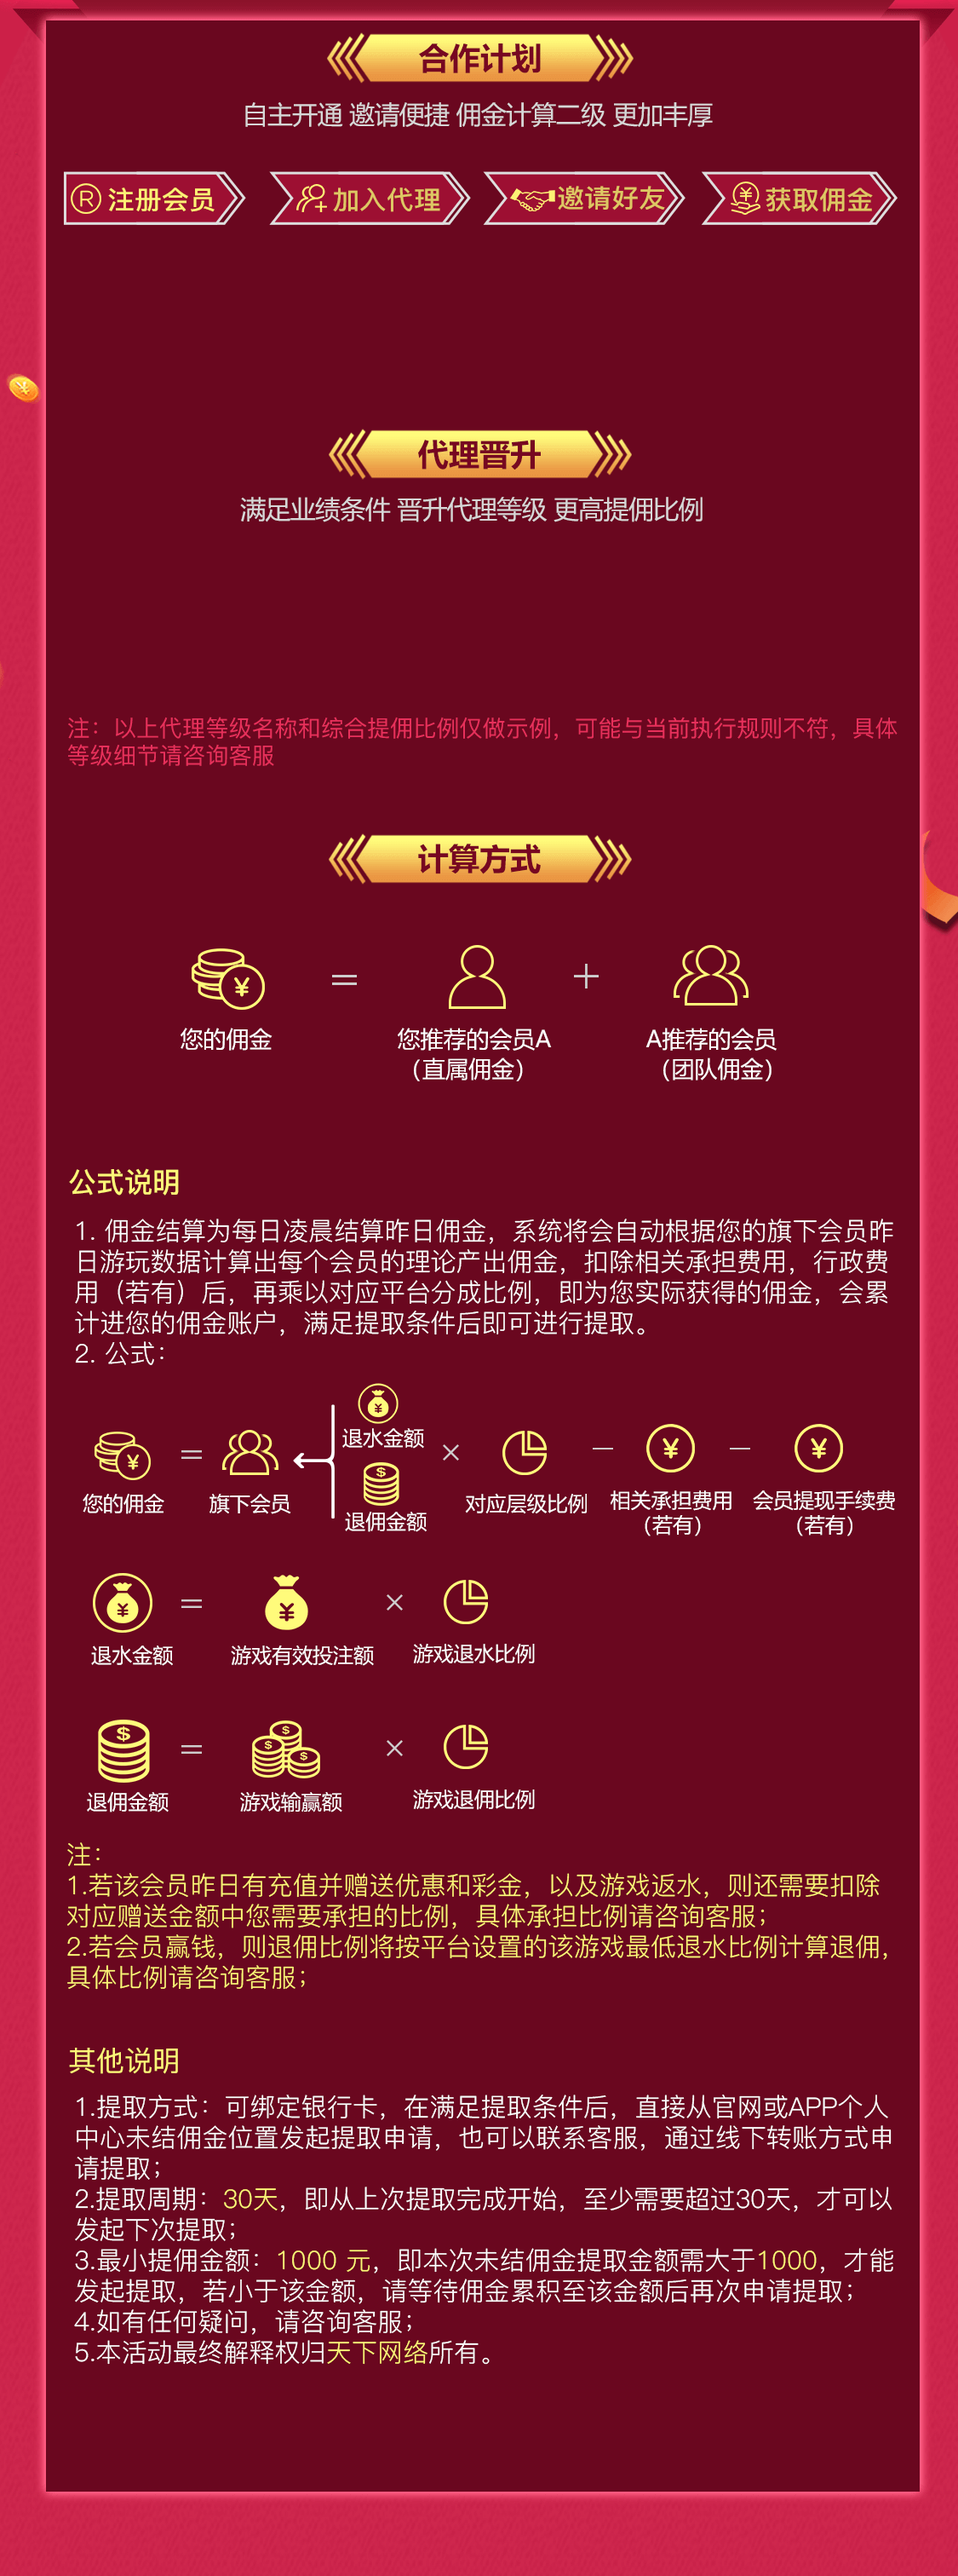
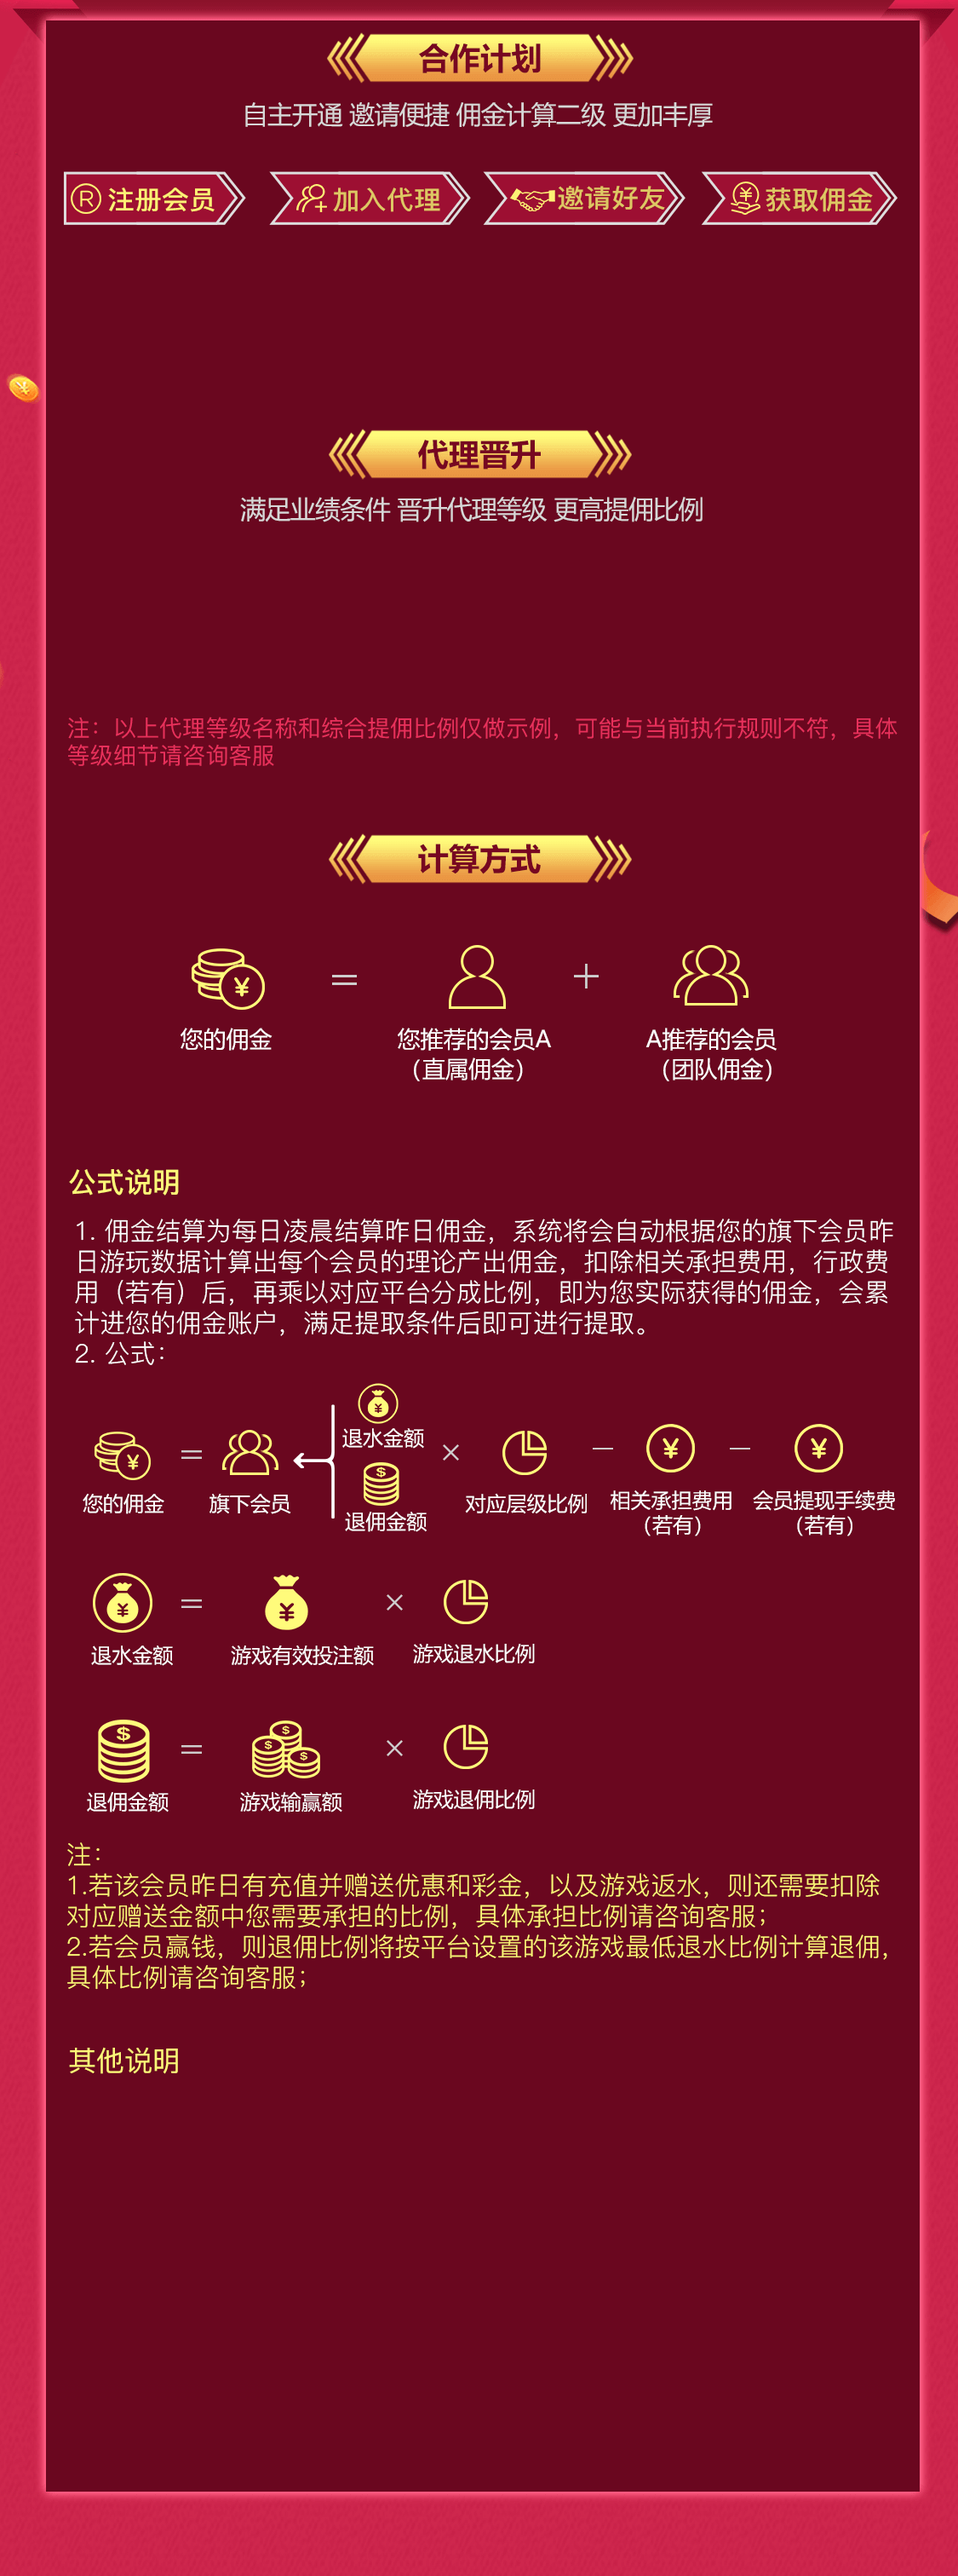
修改代理规则 内容 动态化

Changed region(s): [[0.0622, 0.8085, 0.9333, 0.9328], [0.9022, 0.8707, 0.9333, 0.9018]]

diff --git a/app/components/agent/AgenJoinBefore.js b/app/components/agent/AgenJoinBefore.js
@@ -63,7 +63,8 @@ export default class AgenJoinBefore extends Component<Props> {
             noticeData: []
             , agentData: {},
             isJoin: false,
-            appLevelImagles:''
+            appLevelImagles:'',
+            commissionJson:{},
         };
     }
 
@@ -134,7 +135,7 @@ export default class AgenJoinBefore extends Component<Props> {
             src: WEBNUM }
         http.get('agency/noLoginGetCopyPictures', params).then((res) => {
             if (res.status === 10000) {
-                this.setState({ appLevelImagles: res.data.appLevelImagles })
+                this.setState({ appLevelImagles: res.data.appLevelImagles,commissionJson:JSON.parse(res.data.commissionJson) })
 
             }
         }).catch(err => {
@@ -143,8 +144,18 @@ export default class AgenJoinBefore extends Component<Props> {
     }
 
     reanderActionButton() {
-        const { isJoin,appLevelImagles } = this.state;
+        const { isJoin,appLevelImagles,commissionJson } = this.state;
         let btnTitle = isJoin ? "我的代理" : "立即加入";
+
+        let days;
+        let money;
+        if (commissionJson && Object.keys(commissionJson).length > 0) {
+            days = commissionJson.minCycle + '天';
+            money = commissionJson.minAmount + '元';
+        }else {
+            days = '30天';
+            money = '1000元'
+        }
         return (
             <View style={{marginTop: DeviceValue.windowWidth * (3023 / 1125) * (1 / 9),justifyContent: 'center',
                     alignItems: 'center',}}>
@@ -177,6 +188,9 @@ export default class AgenJoinBefore extends Component<Props> {
                     resizeMode={FastImage.resizeMode.contain}
                 />
 
+            <View style={{paddingLeft:25,paddingRight:20,marginTop:610}}>
+                <Text style={{color:'white',fontSize:10,lineHeight:14}}>1. 提取方式：可绑定银行卡，在满足提取条件后，直接从官网或APP个人中心未结佣金位置发起提取申请，也可以联系客服，通过线下转账方式申请提取；{'\n'}2. 提取周期：<Text style={{color:'#FDF678'}}>{days}</Text>，即从上次提取完成开始，至少需要超过<Text style={{color:'#FDF678'}}>{days}</Text>，才可以发起下次提取；{'\n'}3. 最小提佣金额：<Text style={{color:'#FDF678'}}>{money}</Text>，即本次未结佣金提取金额需大于<Text style={{color:'#FDF678'}}>{money}</Text>，才能发起提取，若小于该金额，请等待佣金累积至该金额后再次申请提取；{'\n'}4. 如有任何疑问，请咨询客服；{'\n'}5.本活动最终解释权归天下网络所有。</Text>
+            </View>
             </View>
             
         );
